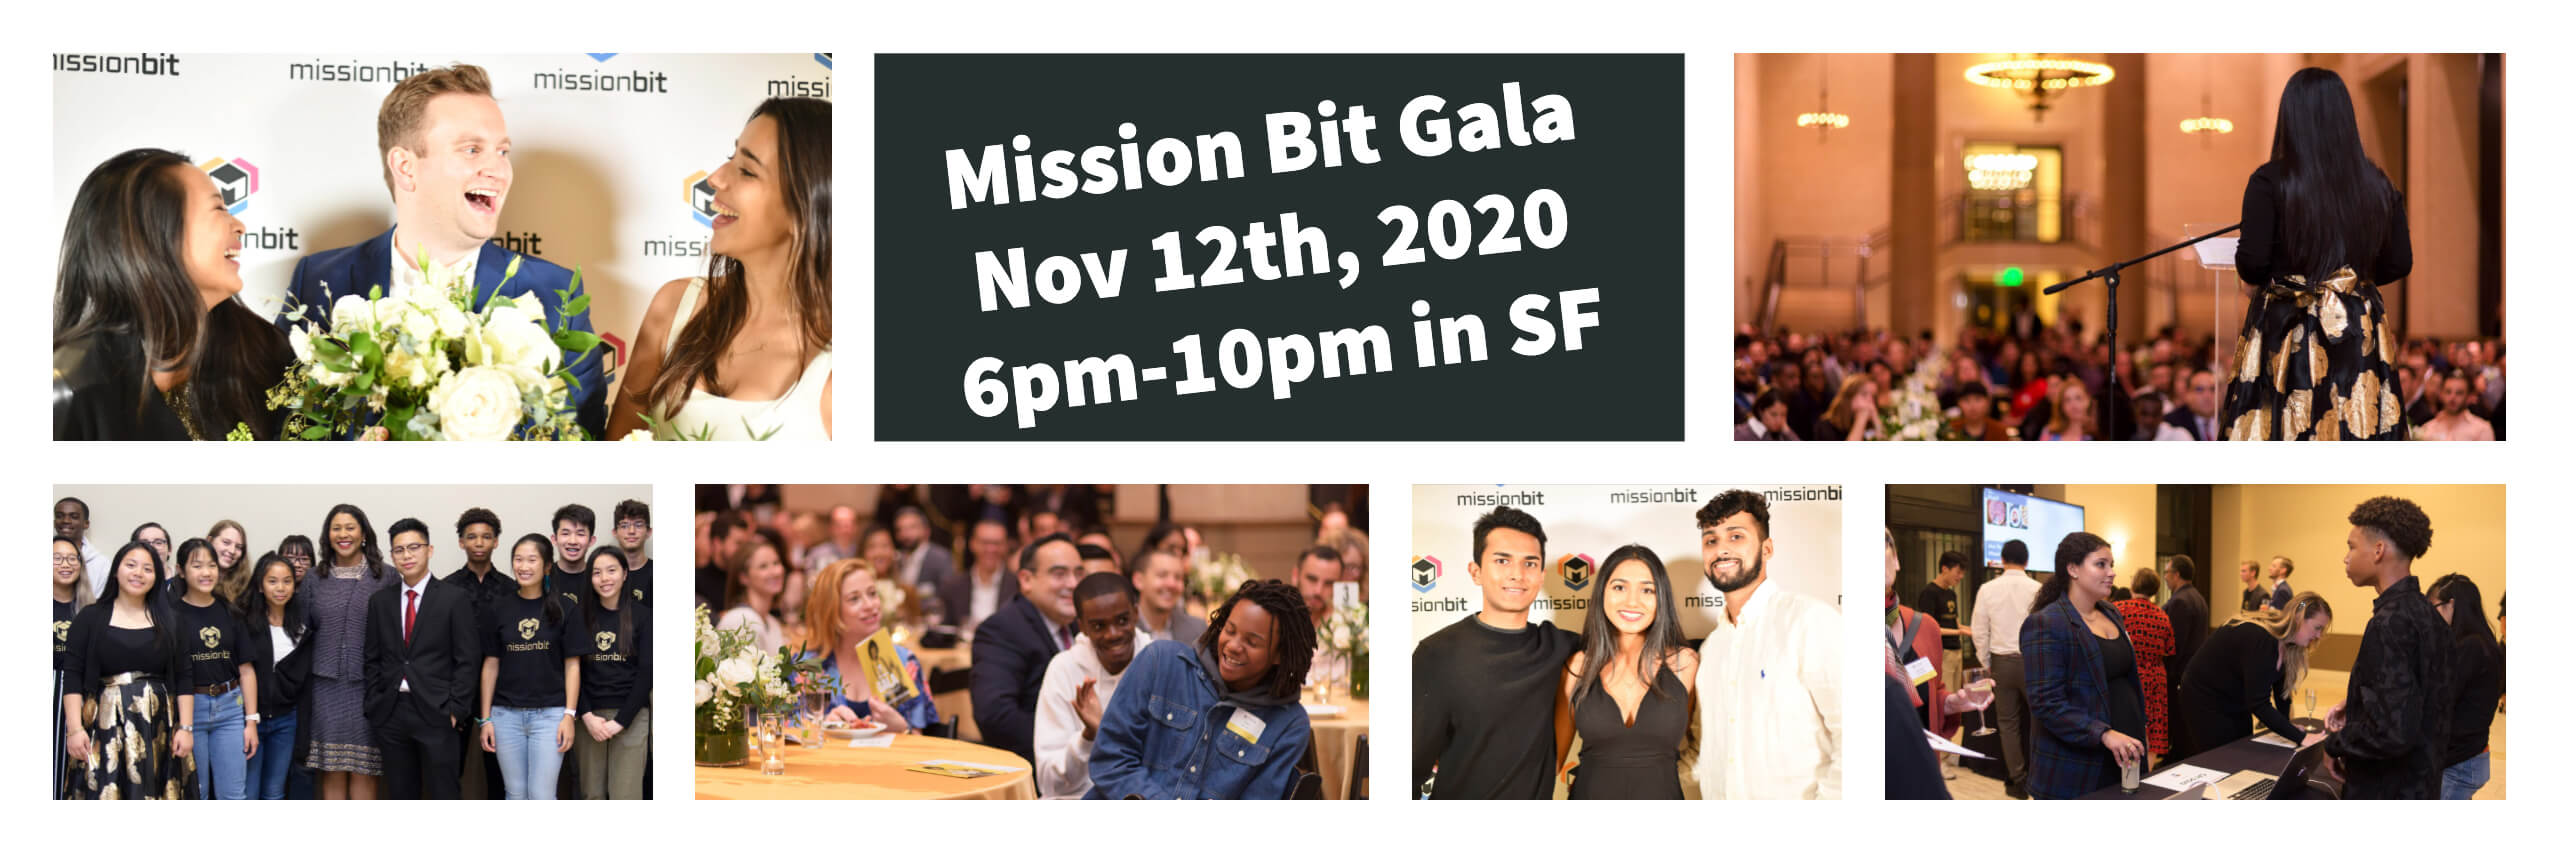
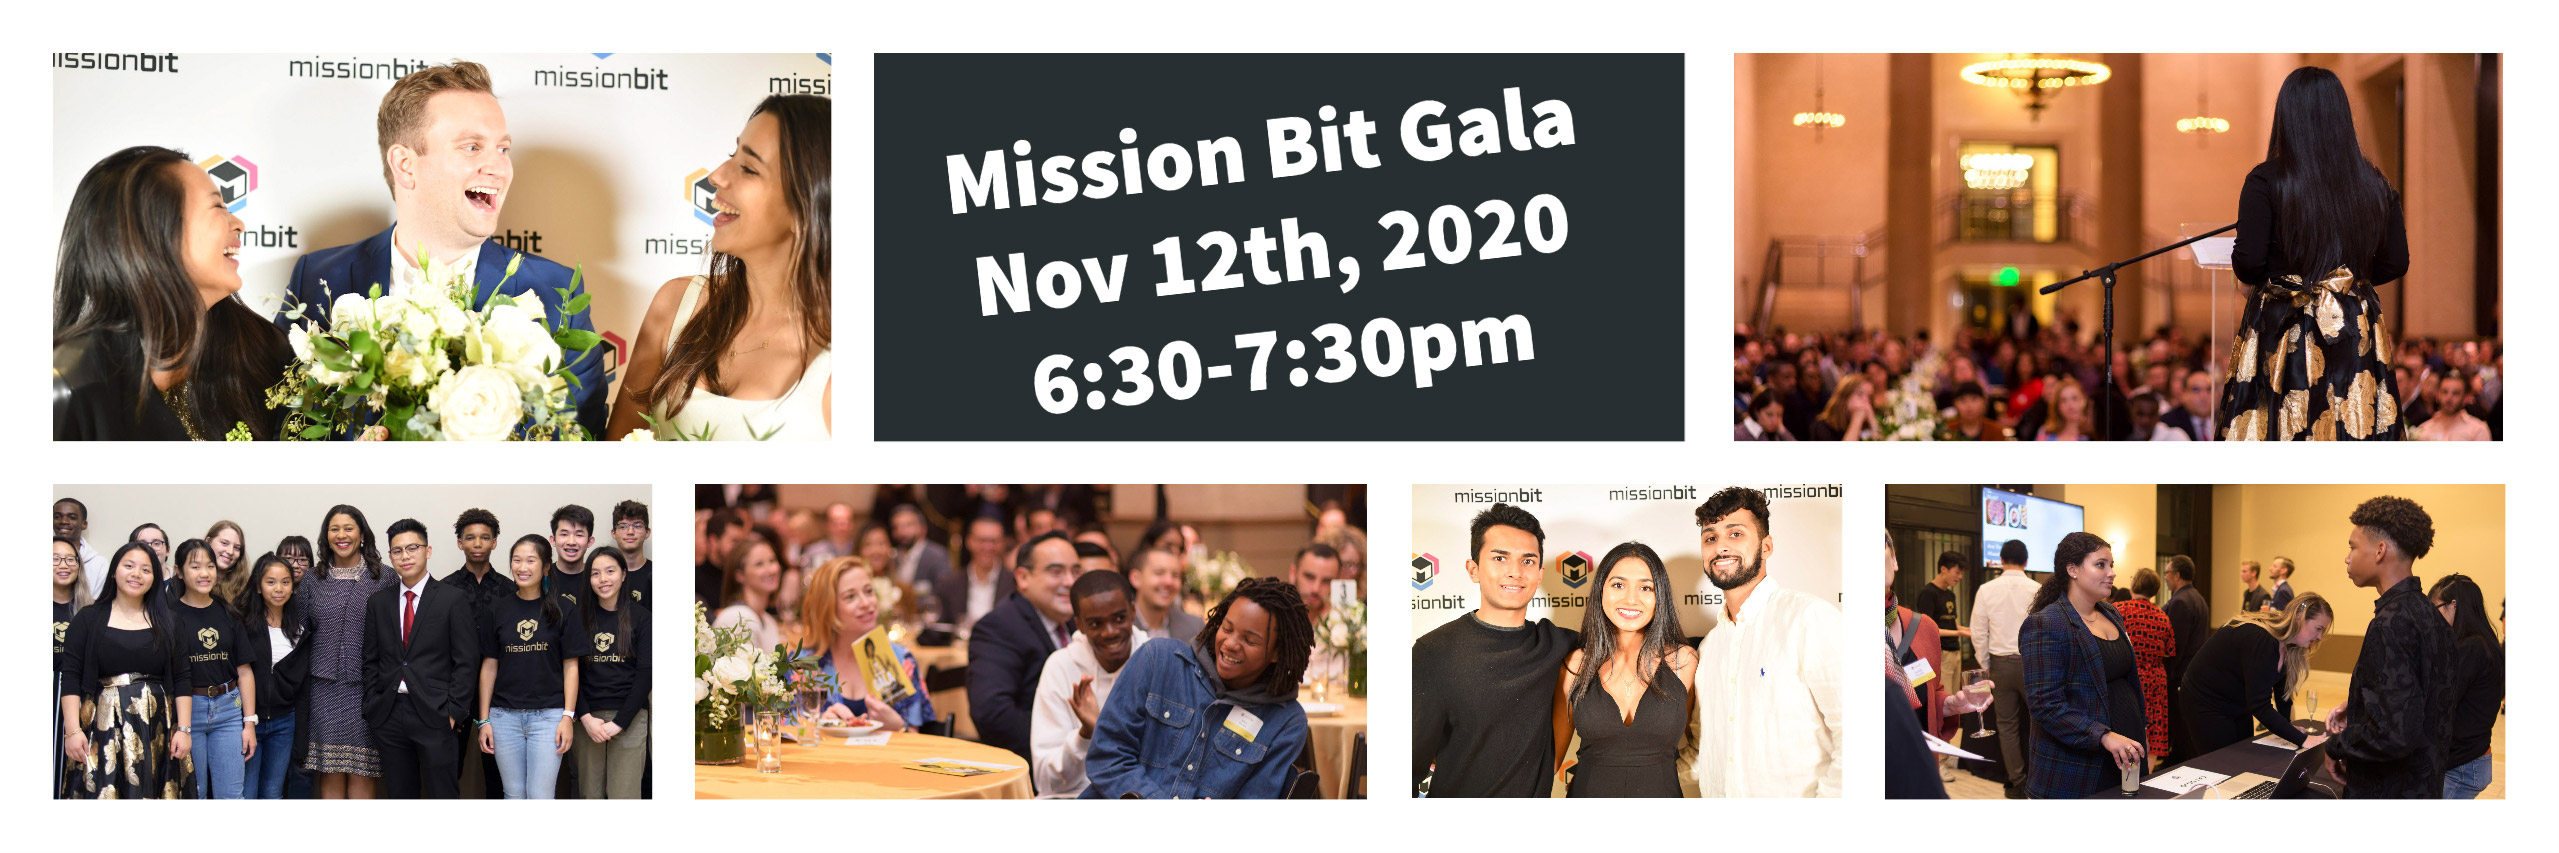
Change gala info to say online & new time

diff --git a/components/gala/Sponsorship.tsx b/components/gala/Sponsorship.tsx
@@ -99,7 +99,7 @@ const Sponsorship: React.FC<{}> = () => {
           <br />
           {time}
           <br />
-          San Francisco
+          Online
         </Typography>
         <Typography>
           <a href="/gala">Mission Bit's Fourth Annual Gala</a> is a celebration
@@ -134,38 +134,32 @@ const Sponsorship: React.FC<{}> = () => {
       >
         <Typography variant="h3">Sponsorship Packages</Typography>
         <Typography>
-          All sponsorship packages include a table for 10 attendees and logo
-          presence on Mission Bit website for 2021
+          All sponsorship packages include a virtual table for 10 attendees and
+          logo presence on Mission Bit website for 2021
         </Typography>
         <Typography variant="h4">$50,000 Diamond Sponsor</Typography>
         <ul>
           <li>Exclusive to one sponsor</li>
-          <li>Up to three minutes of speaking time on stage</li>
-          <li>Front row seating at Gala with Keynote Speaker(s)</li>
-          <li>Influencer status on rotating video for 15 seconds</li>
+          <li>Up to three minutes of speaking time</li>
           <li>Public recognition in CEO Remarks</li>
-          <li>Logo presence on event signage on all event materials</li>
+          <li>Logo presence on all event materials</li>
         </ul>
         <Typography variant="h4">$25,000 Platinum Sponsor</Typography>
         <ul>
           <li>Exclusive to two sponsors</li>
-          <li>Front row seating at Gala with Keynote Speaker(s)</li>
-          <li>Influencer status on rotating video for 15 seconds</li>
           <li>Public recognition in CEO Remarks</li>
-          <li>Logo presence on event signage on all event materials</li>
+          <li>Logo presence on all event materials</li>
         </ul>
         <Typography variant="h4">$10,000 Gold Sponsor</Typography>
         <ul>
           <li>Exclusive to five sponsors</li>
-          <li>Premiere seating at Gala with Mission Bit students</li>
-          <li>Gold status on rotating video for 10 seconds</li>
-          <li>Logo presence on event signage on all event materials</li>
+          <li>Logo presence on all event materials</li>
         </ul>
         <Typography variant="h4">$5,000 Silver Sponsor</Typography>
         <ul>
           <li>Exclusive to ten sponsors</li>
-          <li>Logo presence in event program material</li>
-          <li>Listed as Silver Sponsor at 2020 Mission Bit student events</li>
+          <li>Logo presence on event program</li>
+          <li>Listed as Silver Sponsor at 2021 Mission Bit student events</li>
         </ul>
       </Container>
       <Container component="section" className={classes.copySection}>

diff --git a/components/gala/Gala.tsx b/components/gala/Gala.tsx
@@ -122,12 +122,13 @@ const Gala: React.FC<{}> = () => {
           <br />
           {time}
           <br />
-          San Francisco
+          Online
         </Typography>
         <Typography>
           Mission Bit's Fourth Annual Gala is a celebration of seven years of
-          growth, impact, and learning. Join us for this inspiring event, meet
-          our students, hear their stories, and help us reach our 2021 goals!
+          growth, impact, and learning. Join us online for this inspiring event,
+          meet our students, hear their stories, and help us reach our 2021
+          goals!
         </Typography>
         <Typography>
           For more information on sponsorships, see our{" "}
@@ -142,6 +143,7 @@ const Gala: React.FC<{}> = () => {
           </a>
           .
         </Typography>
+        {/*
         <Typography component="div">
           <strong>What to Expect:</strong>
           <br />
@@ -155,6 +157,7 @@ const Gala: React.FC<{}> = () => {
             </li>
           </ul>
         </Typography>
+        */}
         <Typography>
           We're excited to share this very special evening with you!
         </Typography>

diff --git a/components/gala/Banner.tsx b/components/gala/Banner.tsx
@@ -1,9 +1,15 @@
 import * as React from "react";
 import { makeStyles } from "@material-ui/core/styles";
 
-const useStyles = makeStyles({
+const useStyles = makeStyles((theme) => ({
   root: {
     background: `url(${require("public/images/gala/2020-poster-save-the-date.jpg")}) no-repeat center/100%`,
+    [theme.breakpoints.between("sm", "md")]: {
+      backgroundImage: `url(${require("public/images/gala/2020-poster-save-the-date@0.5x.jpg")})`,
+    },
+    [theme.breakpoints.down("xs")]: {
+      backgroundImage: `url(${require("public/images/gala/2020-poster-save-the-date@0.25x.jpg")})`,
+    },
     width: "100%",
     height: 0,
     overflow: "hidden",
@@ -11,7 +17,7 @@ const useStyles = makeStyles({
     // 3:1 aspect ratio
     padding: "33.33% 0 0",
   },
-});
+}));
 
 const Banner: React.FC<{}> = () => <div className={useStyles().root} />;
 

diff --git a/components/gala/GalaDates.tsx b/components/gala/GalaDates.tsx
@@ -4,9 +4,9 @@ import { hourStartEndParts } from "src/dates";
 
 export const GalaCalendarEvent: CalendarEvent = {
   title: "Mission Bit Gala 2020",
-  start: "2020-11-12T18:00-08:00",
-  end: "2020-11-12T22:00-08:00",
-  location: "San Francisco, CA",
+  start: "2020-11-12T18:30-08:00",
+  end: "2020-11-12T19:30-08:00",
+  location: "Online",
   url: absoluteUrl("/gala"),
 };
 
